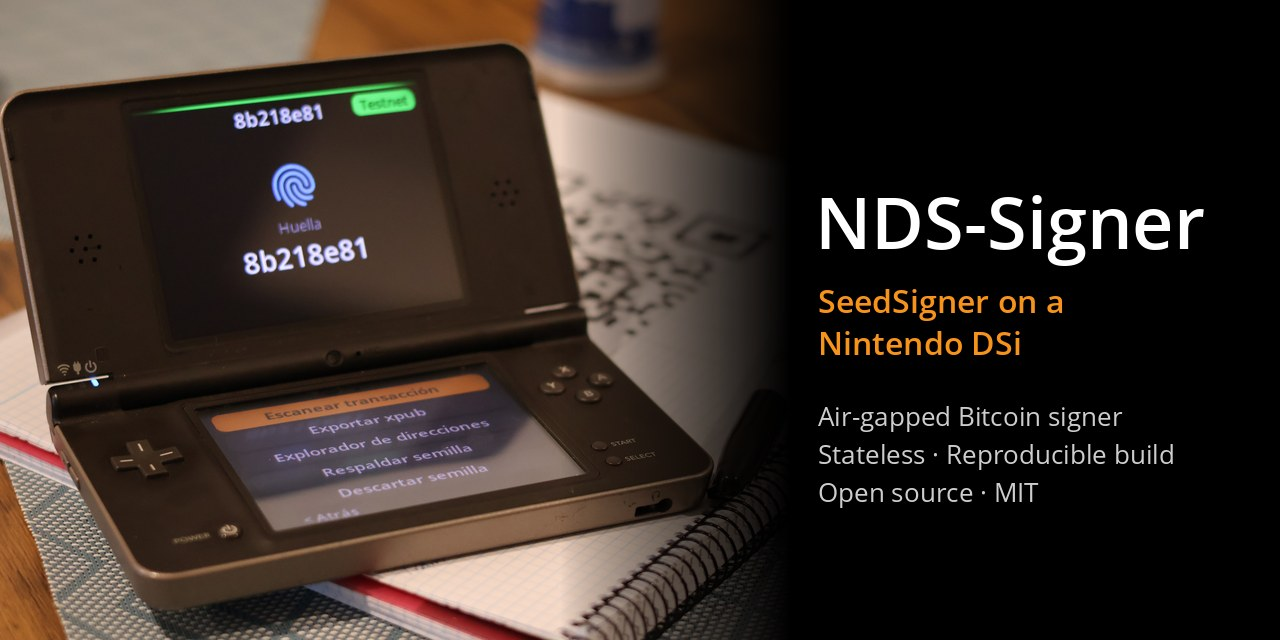
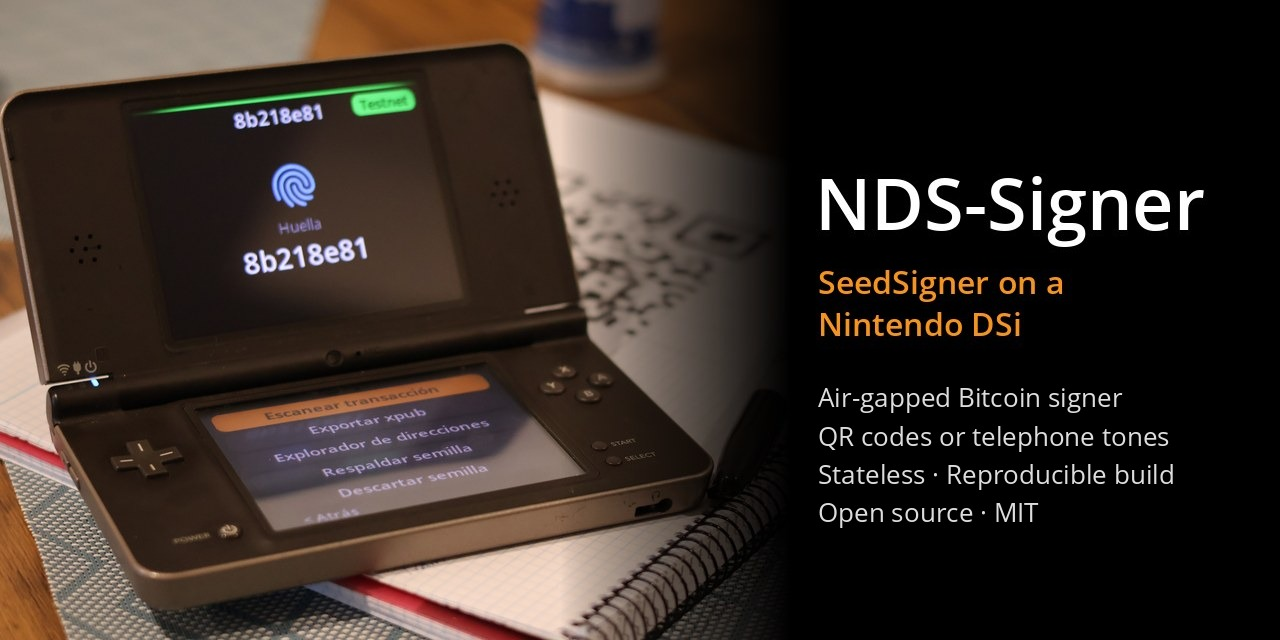
v0.2.0-alpha: docs and screenshots for the telephone tones
- README and LEEME: a section on the tones (receive a PSBT, send the signed
  one back, seeds with a PIN, the risks), a row of screenshots of their
  screens, a line in Compatible wallets (no camera: the ur-tones web tool)
  and in Known limitations; the header image says 'QR codes or telephone
  tones'.
- CHANGELOG: v0.2.0-alpha. Architecture and how-it-was-built: the tones.
- tools/dev/readme_screenshots.sh renders the tone flows too, through the
  new tools/dev/runflow.sh (the tests' module path, ur-tones included);
  render_gallery.py measures text in whole pixels, as the ROM does (a 'W'
  of 14.19 px was clipped from a 14 px key), and takes --all.
- The simulator gives a steady level while listening (screenshots in dB).

Changed region(s): [[0.625, 0.2812, 0.9375, 0.5625], [0.625, 0.5938, 0.9375, 0.8125]]

diff --git a/tools/dev/render_gallery.py b/tools/dev/render_gallery.py
@@ -4,7 +4,7 @@
 the same fonts and sizes as the ROM (tools/ttf_to_ndsfont.py), plus an HTML
 index. Needs Pillow and qrcode (the tests' CPython venv).
 
-    render_gallery.py <snapshot dir> <out dir>
+    render_gallery.py <snapshot dir> <out dir> [--all]   (--all: every snapshot, not 2 per screen)
 
 Approximations: text in the old console font is drawn in a small fixed-width
 font on a dark blue box (to spot what is not graphical yet); the camera
@@ -96,7 +96,7 @@ def render(ops):
             f = _fonts[font]
             ascent = f.getmetrics()[0]
             if max_w:
-                while text and f.getlength(text) > max_w:
+                while text and round(f.getlength(text)) > max_w:  # whole pixels, as the ROM
                     text = text[:-1]
             d.text((x, y + ascent), text, font=f, fill=rgb(color), anchor="ls")
         elif kind == "console":
@@ -145,7 +145,7 @@ def main():
     for path in sorted(src.glob("*.json")):
         view = path.stem.rsplit("_", 1)[1]
         per_view[view] = per_view.get(view, 0) + 1
-        if per_view[view] > 2:  # e.g. the 69 settings entries: 2 are enough
+        if per_view[view] > 2 and "--all" not in sys.argv:  # e.g. the 69 settings entries: 2 are enough
             continue
         snap = json.loads(path.read_text())
         both = Image.new("RGB", (W, 2 * H + 6), (60, 60, 60))

diff --git a/tests/host/sim/nds.py b/tests/host/sim/nds.py
@@ -467,7 +467,8 @@ def tones_poll():
         _tones_queue.pop(0)
         _tones_sent[0] = 0
         return (group, "", -200, 1, 0)
-    return (None, "", -990, 0, 0)
+    # listening: a steady level, as a microphone in a room would give
+    return (None, "", -230 if tones_on else -990, 0, 0)
 
 
 def tones_loopback(groups):

diff --git a/README.md b/README.md
@@ -7,7 +7,7 @@
 
 *[Leer en español](docs/es/LEEME.md)*
 
-> ⚠ **Alpha software (v0.1.0-alpha).** It has not been audited. Try it on
+> ⚠ **Alpha software (v0.2.0-alpha).** It has not been audited. Try it on
 > testnet/signet or with amounts you can afford to lose. Read the
 > [disclaimer](#disclaimer).
 
@@ -25,6 +25,7 @@ host simulator (`tools/dev/readme_screenshots.sh`):
 <table>
 <tr><td align="center"><img src="docs/images/home.png" width="190" alt="Home"><br><sub>Home</sub></td><td align="center"><img src="docs/images/review.png" width="190" alt="Review the transaction"><br><sub>Review the transaction</sub></td><td align="center"><img src="docs/images/recipient.png" width="190" alt="Each recipient's address"><br><sub>Each recipient's address</sub></td><td align="center"><img src="docs/images/math.png" width="190" alt="The amounts add up"><br><sub>The amounts add up</sub></td></tr>
 <tr><td align="center"><img src="docs/images/signed-qr.png" width="190" alt="Signed PSBT, animated QR"><br><sub>Signed PSBT, animated QR</sub></td><td align="center"><img src="docs/images/addresses.png" width="190" alt="Address explorer with QR"><br><sub>Address explorer with QR</sub></td><td align="center"><img src="docs/images/seedqr-map.png" width="190" alt="SeedQR backup with a map"><br><sub>SeedQR backup with a map</sub></td><td align="center"><img src="docs/images/new-seed.png" width="190" alt="New seed: scribble + mic"><br><sub>New seed: scribble + mic</sub></td></tr>
+<tr><td align="center"><img src="docs/images/tones-listen.png" width="190" alt="Tones: listening"><br><sub>Tones: listening to a PSBT</sub></td><td align="center"><img src="docs/images/tones-pin.png" width="190" alt="Tones: a made-up PIN"><br><sub>Tones: a PIN made up by the DSi</sub></td><td align="center"><img src="docs/images/tones-play.png" width="190" alt="Tones: playing the signed PSBT"><br><sub>Tones: playing the signed PSBT</sub></td><td align="center"><img src="docs/images/tones-export.png" width="190" alt="Tones: a seed with its PIN"><br><sub>Tones: a seed with its PIN</sub></td></tr>
 </table>
 
 ## What it does
@@ -53,45 +54,37 @@ touch interface, the DSi cameras, QR decoding and display.
 Tested on a real DSi XL: signing a Signet transaction created in Sparrow,
 and exporting the xpub to Sparrow.
 
-**Experimental: telephone tones.** *Scan → Listen to tones (experimental)*
-hears a transaction, a seed or an xpub sent as DTMF tones, by cable or
-through the air, instead of a QR code: the
-[ur-tones](https://github.com/ndssigner/ur-tones) format, whose
-[web tool](https://ndssigner.github.io/ur-tones/) plays a PSBT from Sparrow
-(or a test seed) as tones. A seed can come with a PIN, so that whoever
-overhears or records the tones gets a different seed; through the air, any
-microphone nearby can record them. Either side can make the PIN up (the DSi
-from its microphone's noise) for the other to type, and the seed's
-fingerprint, on both, tells a wrong PIN at once. While listening, the top
-screen shows the frames, each frame's progress, the tones as they come and
-the sound's level. Its receiver is C with integers only
-(`third_party/ur-tones/c`). Tested on a DSi: seeds through the air with and
-without a PIN, and a PSBT from Sparrow through the air at cable pace.
-The DSi also plays tones: the signed PSBT (*Play as tones* next to its QR
-code), and a seed with its PIN (*Backup seed → Export as tones*), for
-another device or a backup on tape or MP3 — by cable for the best sound.
+### Telephone tones (experimental)
 
-## Security model
+Besides QR codes, NDS-Signer can exchange data as **telephone tones
+(DTMF)**, by an audio cable or through the air: the
+[ur-tones](https://github.com/ndssigner/ur-tones) format. No camera is
+needed on either side, and the same UR parts as animated QR codes travel,
+with error correction (two misheard tones per frame are always repaired)
+and fountain codes (a lost frame costs one frame).
 
-- **No network.** The ARM7 (the DSi's second CPU, which owns the wireless
-  chips) is built without the wireless driver, and powers both wireless chips
-  and the wireless LED down at start.
-- **Stateless.** Nothing is written to the SD card or the internal memory:
-  the storage driver is not even linked. Seeds, passphrases and PSBTs live in
-  RAM only.
-- **Lid closed = wiped.** Closing the lid (or pressing the power button)
-  overwrites the memory that may hold secrets and switches the console off.
-  It never goes to sleep with a seed loaded.
-- **No hardware RNG.** New seeds come only from what you provide: dice,
-  camera images, scribbles and microphone noise.
-- **Microphone and camera** are off except on the screens that use them.
-- **Reproducible build.** The ROM is built in a pinned Docker image; anyone
-  can rebuild it and compare its SHA-256 with the released file.
+- **Receive a PSBT:** in Sparrow, *Copy as Base64*; paste it into the
+  [ur-tones web tool](https://ndssigner.github.io/ur-tones/) (*Send*) and
+  play it. On the DSi: *Scan → Listen to tones (experimental) → Start
+  listening* — start listening first, then the sender. The top screen
+  shows the frames, the current frame's progress, the tones as they come
+  and the level in dB; the bottom one, Cancel and the microphone's gain.
+- **Send the signed PSBT back:** *Play as tones (experimental)*, next to its
+  animated QR code; the web tool listens (*Listen*) and gives the PSBT to
+  copy back into Sparrow.
+- **Seeds, with a PIN:** a seed can be received (*Listen to tones*), or
+  exported (*Backup seed → Export as tones*) to another device or as a
+  backup on tape or MP3 — by cable for the best sound. With a PIN, whoever
+  overhears or records the tones gets a different, empty wallet. Either
+  side can make the PIN up (the DSi from its microphone's noise: 12
+  characters, in groups of four) for the other to type; both show the
+  seed's fingerprint, so a wrong PIN shows at once.
 
-What it does **not** protect against: a compromised SD card or launcher
-(they run before NDS-Signer), someone watching your screen, or a console
-modified to record what it displays. Keep the SeedSigner advice: verify
-addresses, and keep your seed words offline.
+Through the air, any microphone in the room can record what is played: send
+seeds by cable, or with a PIN of 12 characters or more. The receiver is
+ur-tones' C library, with integers only (`third_party/ur-tones/c`).
+Tested on a DSi XL: seeds through the air with and without a PIN, and a
+Sparrow PSBT through the air at cable pace, both ways, in a noisy room.
 
 ## Compatible wallets
 
@@ -108,7 +101,9 @@ with SeedSigner should work:
 | [BlueWallet](https://bluewallet.io) | | ✅ | |
 
 Plus any wallet that reads and shows PSBTs as QR codes (animated UR or
-static). Blank in the last column: expected to work, as with SeedSigner, but
+static). Without a camera, any of them through the
+[ur-tones web tool](https://ndssigner.github.io/ur-tones/) and telephone
+tones (copy and paste the PSBT; experimental). Blank in the last column: expected to work, as with SeedSigner, but
 not tried yet; reports welcome.
 
 ## Which consoles work
@@ -148,6 +143,9 @@ In short:
 - **Scanning bright screens is slow:** lower the screen's brightness
   ([help wanted](docs/help-wanted.md)).
 - **3DS family:** untested.
+- **Telephone tones are experimental:** the ur-tones format is a draft and
+  may still change. In a noisy room, or with the DSi's small speaker far
+  from the receiver, use the slower air pace.
 
 ## Build
 

diff --git a/docs/es/LEEME.md b/docs/es/LEEME.md
@@ -8,7 +8,7 @@ para la Nintendo DSi, que ejecuta el propio código de
 
 *[Read in English](../../README.md)*
 
-> ⚠ **Versión alfa (v0.1.0-alpha).** Nadie la ha auditado. Pruébala en
+> ⚠ **Versión alfa (v0.2.0-alpha).** Nadie la ha auditado. Pruébala en
 > testnet/signet o con cantidades que puedas permitirte perder.
 
 Una Nintendo DSi ya tiene lo que necesita un SeedSigner: cámara, dos
@@ -26,6 +26,7 @@ idioma):
 <table>
 <tr><td align="center"><img src="../images/home.png" width="190" alt="Inicio"><br><sub>Inicio</sub></td><td align="center"><img src="../images/review.png" width="190" alt="Revisar la transacción"><br><sub>Revisar la transacción</sub></td><td align="center"><img src="../images/recipient.png" width="190" alt="Dirección de cada destinatario"><br><sub>Dirección de cada destinatario</sub></td><td align="center"><img src="../images/math.png" width="190" alt="Las cuentas cuadran"><br><sub>Las cuentas cuadran</sub></td></tr>
 <tr><td align="center"><img src="../images/signed-qr.png" width="190" alt="Transacción firmada, QR animado"><br><sub>Transacción firmada, QR animado</sub></td><td align="center"><img src="../images/addresses.png" width="190" alt="Direcciones con su QR"><br><sub>Direcciones con su QR</sub></td><td align="center"><img src="../images/seedqr-map.png" width="190" alt="Copia del SeedQR con mapa"><br><sub>Copia del SeedQR con mapa</sub></td><td align="center"><img src="../images/new-seed.png" width="190" alt="Nueva semilla: garabato + micro"><br><sub>Nueva semilla: garabato + micro</sub></td></tr>
+<tr><td align="center"><img src="../images/tones-listen.png" width="190" alt="Tonos: escuchando"><br><sub>Tonos: escuchando una PSBT</sub></td><td align="center"><img src="../images/tones-pin.png" width="190" alt="Tonos: un PIN inventado"><br><sub>Tonos: un PIN inventado por la DSi</sub></td><td align="center"><img src="../images/tones-play.png" width="190" alt="Tonos: enviando la PSBT firmada"><br><sub>Tonos: enviando la PSBT firmada</sub></td><td align="center"><img src="../images/tones-export.png" width="190" alt="Tonos: una semilla con su PIN"><br><sub>Tonos: una semilla con su PIN</sub></td></tr>
 </table>
 
 ## Qué hace
@@ -44,25 +45,40 @@ idioma):
 - **Ajustes:** red (mainnet, testnet/signet, regtest), unidades, 16 idiomas
   (el de la consola por defecto), sonidos, cámara trasera o frontal.
 
-**Experimental: tonos de teléfono.** *Escanear → Escuchar tonos
-(experimental)* oye una transacción, una semilla o una xpub enviadas como
-tonos DTMF, por cable o al aire, en vez de un QR: el formato
-[ur-tones](https://github.com/ndssigner/ur-tones), cuya
-[herramienta web](https://ndssigner.github.io/ur-tones/) reproduce como
-tonos una PSBT de Sparrow (o una semilla de prueba). Una semilla puede ir
-con PIN, para que quien escuche o grabe los tonos obtenga otra semilla; al
-aire, cualquier micrófono cercano puede grabarlos. Cualquiera de los dos
-lados puede inventar el PIN (la DSi, con el ruido de su micrófono) para que
-el otro lo escriba, y la huella de la semilla, en los dos, delata al
-momento un PIN equivocado. Mientras escucha, la pantalla superior muestra
-las tramas, el avance de cada una, los tonos según llegan y el nivel del
-sonido. Su receptor está en C, solo con enteros
-(`third_party/ur-tones/c`). Probado en una DSi: semillas al aire con y sin
-PIN, y una PSBT de Sparrow al aire a ritmo de cable. La DSi también emite
-tonos: la PSBT firmada (*Enviar como tonos*, junto a su QR) y una semilla
-con su PIN (*Copia de la semilla → Exportar como tonos*), para otro
-dispositivo o una copia en cinta o MP3 (por cable, que es como mejor
-suena).
+### Tonos de teléfono (experimental)
+
+Además de con códigos QR, NDS-Signer puede intercambiar datos como **tonos
+de teléfono (DTMF)**, por un cable de audio o al aire: el formato
+[ur-tones](https://github.com/ndssigner/ur-tones). No hace falta cámara en
+ningún lado, y viajan las mismas partes UR que en los QR animados, con
+corrección de errores (dos tonos mal oídos por trama se reparan siempre) y
+códigos fountain (una trama perdida cuesta una trama).
+
+- **Recibir una PSBT:** en Sparrow, *Copy as Base64*; pégala en la
+  [herramienta web de ur-tones](https://ndssigner.github.io/ur-tones/)
+  (*Enviar*) y reprodúcela. En la DSi: *Escanear → Escuchar tonos
+  (experimental) → Empezar a escuchar*; primero escucha y después pon en
+  marcha el emisor. La pantalla superior muestra las tramas, el avance de
+  la trama actual, los tonos según llegan y el nivel en dB; la inferior,
+  Cancelar y la ganancia del micrófono.
+- **Devolver la PSBT firmada:** *Enviar como tonos (experimental)*, junto a
+  su QR animado; la herramienta web escucha (*Escuchar*) y da la PSBT para
+  copiarla de vuelta en Sparrow.
+- **Semillas, con PIN:** una semilla se puede recibir (*Escuchar tonos*) o
+  exportar (*Respaldar semilla → Exportar como tonos*) a otro dispositivo o
+  como copia en cinta o MP3 (por cable, que es como mejor suena). Con PIN,
+  quien escuche o grabe los tonos obtiene otra cartera, vacía. Cualquiera de
+  los dos lados puede inventar el PIN (la DSi, con el ruido de su
+  micrófono: 12 caracteres, en grupos de cuatro) para que el otro lo
+  escriba; los dos muestran la huella de la semilla, así que un PIN
+  equivocado se nota al momento.
+
+Al aire, cualquier micrófono de la habitación puede grabar lo que suena:
+envía las semillas por cable, o con un PIN de 12 caracteres o más. El
+receptor es la librería en C de ur-tones, solo con enteros
+(`third_party/ur-tones/c`). Probado en una DSi XL: semillas al aire con y
+sin PIN, y una PSBT de Sparrow al aire a ritmo de cable, en los dos
+sentidos, en una habitación con ruido.
 
 ## Seguridad
 
@@ -92,7 +108,9 @@ Cualquier cartera que funcione con SeedSigner debería funcionar:
 | [BlueWallet](https://bluewallet.io) | | ✅ | |
 
 Y cualquier cartera que lea y muestre transacciones PSBT como QR (animados UR
-o estáticos). En blanco en la última columna: deberían funcionar, como con
+o estáticos). Sin cámara, cualquiera de ellas a través de la
+[herramienta web de ur-tones](https://ndssigner.github.io/ur-tones/) y tonos
+de teléfono (copiando y pegando la PSBT; experimental). En blanco en la última columna: deberían funcionar, como con
 SeedSigner, pero aún no se han probado; se agradecen pruebas.
 
 ## Qué consolas sirven
@@ -133,6 +151,10 @@ En resumen:
 - **Escanear pantallas muy brillantes es lento:** baja el brillo de la
   pantalla.
 - **Familia 3DS:** sin probar.
+- **Los tonos de teléfono son experimentales:** el formato ur-tones es un
+  borrador y aún puede cambiar. En una habitación con ruido, o con el
+  altavoz pequeño de la DSi lejos del receptor, usa el ritmo de aire, más
+  lento.
 
 ## Guías
 

diff --git a/docs/architecture.md b/docs/architecture.md
@@ -2,7 +2,7 @@
 
 Status: **implemented.** Proposed on 2026-09-26; the MicroPython spike (end
 of this document) succeeded in the emulator and then on a real DSi XL, and
-NDS-Signer v0.1.0-alpha is built this way. Sections below keep the reasoning
+NDS-Signer v0.2.0-alpha is built this way. Sections below keep the reasoning
 as it was written; [how-it-was-built.md](how-it-was-built.md) tells the rest.
 
 ## Goal
@@ -59,6 +59,7 @@ Raspberry Pi and a 240x240 screen.
 | Translations, BIP-39 wordlist, settings definitions | **Build-time generators**: upstream data files (`.po`, JSON, wordlists) turned into tables automatically |
 | Camera, QR decoding (quirc), display, touch | **Native C** (phases 1-3) |
 | Cryptography (libsecp256k1) | **Native C**, through the MicroPython binding embit already supports (Specter-DIY) |
+| Telephone tones ([ur-tones](https://github.com/ndssigner/ur-tones), experimental) | **Native C**: ur-tones' C library (submodule `third_party/ur-tones/c`: frames, Reed-Solomon, PIN, synthesis, an integer-only receiver) fed by the microphone's DMA and played through a sound channel (`arm9/src/tones_audio.c`); the UR text it hears goes to upstream's `DecodeQR` as if scanned. Screens in `gui/nds_tones.py` |
 | `hardware/`, `version.py`, CI tooling | Not applicable |
 
 ### Staying in sync with upstream

diff --git a/CHANGELOG.md b/CHANGELOG.md
@@ -1,6 +1,10 @@
 # Changelog
 
-## Unreleased
+## v0.2.0-alpha
+
+Telephone tones ([ur-tones](https://github.com/ndssigner/ur-tones) v0.1.0),
+experimental: PSBTs and seeds without a camera, by cable or through the air.
+Tested on a DSi XL with Sparrow and the ur-tones web tool, both ways.
 
 - Experimental: *Scan → Listen to tones* hears PSBTs, seeds (with an
   optional PIN) and other URs sent as telephone tones
@@ -13,6 +17,10 @@
   next to its QR code, in UR parts of 100 bytes with fountain codes, in a
   loop until Stop) and a seed with an optional PIN (*Backup seed → Export as
   tones*, showing its fingerprint; for a tape backup, by cable).
+- A made-up PIN has 12 characters (60 bits), shown in groups of four; a
+  shorter PIN is accepted, with a warning.
+- README and LEEME: a section on the tones, and screenshots of their
+  screens (`tools/dev/readme_screenshots.sh`, now with the tone flows).
 
 ## v0.1.0-alpha
 

diff --git a/docs/es/como-se-hizo.md b/docs/es/como-se-hizo.md
@@ -85,7 +85,9 @@ Tres niveles, del más rápido al más real:
 Hitos en la consola: primera firma (etiqueta `hw-first-signature`), primera
 transacción real de Signet creada en Sparrow y emitida
 (`hw-first-signet-tx`), todos los menús comprobados (`hw-menus-verified`),
-la interfaz gráfica (`hw-ui-style-a`).
+la interfaz gráfica (`hw-ui-style-a`), y los tonos de teléfono en los dos
+sentidos —una PSBT de Sparrow y semillas con PIN, al aire— en la
+v0.2.0-alpha.
 
 ## Qué significa para ti
 

diff --git a/docs/how-it-was-built.md b/docs/how-it-was-built.md
@@ -80,7 +80,8 @@ Three layers, from fastest to most real:
 Milestones on real hardware: first signature (tag `hw-first-signature`),
 first real Signet transaction created in Sparrow and broadcast
 (`hw-first-signet-tx`), every menu verified (`hw-menus-verified`), the
-graphical interface (`hw-ui-style-a`).
+graphical interface (`hw-ui-style-a`), and telephone tones both ways —
+a PSBT from Sparrow and seeds with a PIN, through the air — in v0.2.0-alpha.
 
 ## What this means for you
 
